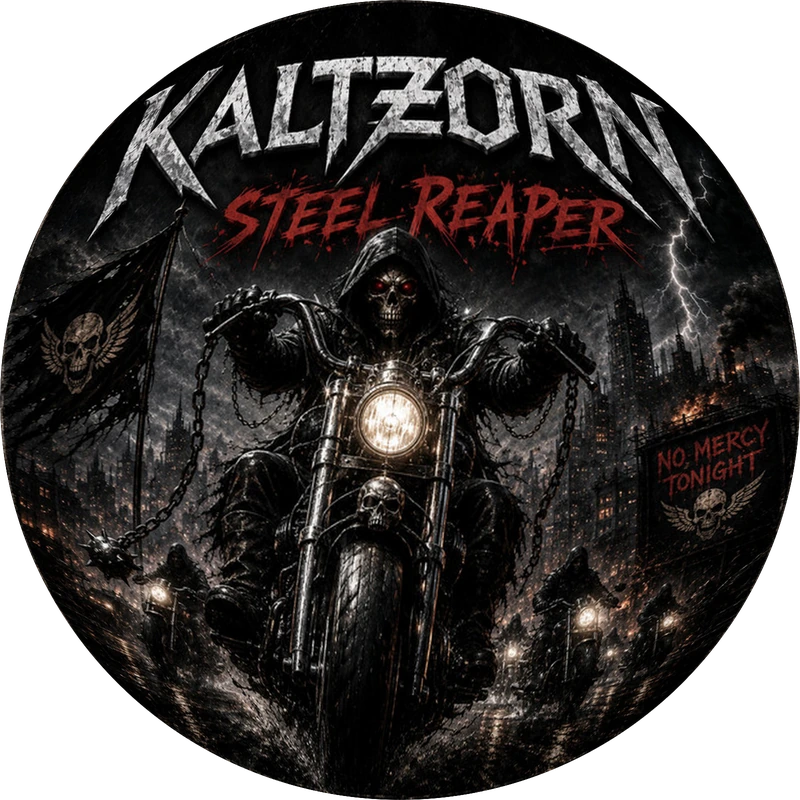
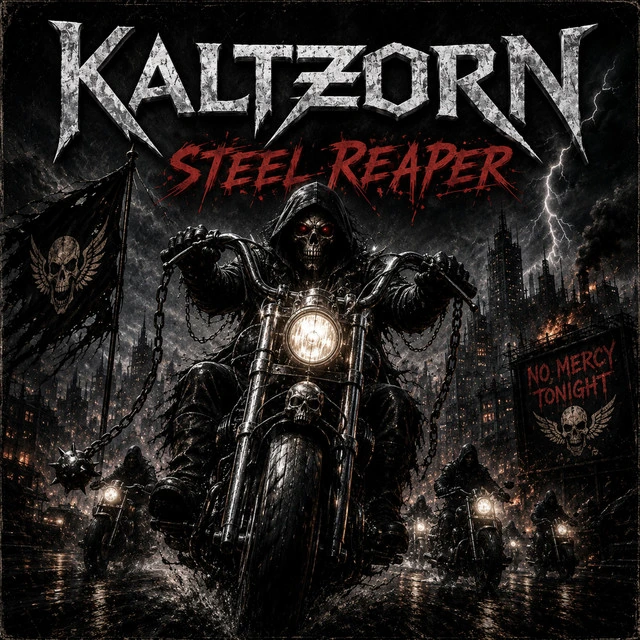
Plattenschrank: Cover quadratisch und unverzerrt, symmetrisches Raster
Die runde FG-Squircular-Abbildung hat die Cover gebogen und gezogen. Jetzt werden die Cover 1:1 ohne Verzerrung gezeigt, in einheitlicher Größe und in einem zentrierten Raster (Desktop 7 pro Reihe, Handy 3 pro Reihe). Die tägliche Aktualisierung erzeugt neue Cover ebenfalls quadratisch.

diff --git a/index.html b/index.html
@@ -10,7 +10,7 @@
   <link rel="icon" type="image/png" sizes="32x32" href="img/favicon-32.png">
   <link rel="icon" type="image/png" sizes="192x192" href="img/favicon-192.png">
   <link rel="apple-touch-icon" href="img/apple-touch-icon.png">
-  <link rel="stylesheet" href="css/vinyl-player.css?v=20261118c">
+  <link rel="stylesheet" href="css/vinyl-player.css?v=20261123a">
 </head>
 <body>
   <header class="top">
@@ -272,6 +272,6 @@
     <p><a href="impressum.html">Impressum</a> · <a href="datenschutz.html">Datenschutz</a></p>
   </footer>
   <script type="application/json" id="songs-data">[{"title": "Sandstorm", "spotify": "https://open.spotify.com/intl-de/track/5ND2lS3kLnksKCyFLLAk8p", "img": "img/spotify/5ND2lS3kLnksKCyFLLAk8p.jpg", "date": "2026-11-13", "preview": "https://p.scdn.co/mp3-preview/526c113eedbc3c50d9f23eb5d10283db6123a58d", "imgRound": "img/covers-round/5ND2lS3kLnksKCyFLLAk8p.webp"}, {"title": "the hall", "spotify": "https://open.spotify.com/intl-de/track/3fJEQoQwdBF8fjzsAhPPmy", "img": "img/spotify/3fJEQoQwdBF8fjzsAhPPmy.jpg", "date": "2026-10-23", "preview": "https://p.scdn.co/mp3-preview/8db30a317e3db995c57fdcb7d14ae5f9a51163cb", "imgRound": "img/covers-round/3fJEQoQwdBF8fjzsAhPPmy.webp"}, {"title": "fucking reset", "spotify": "https://open.spotify.com/intl-de/track/4ftDTNGzhHhFiwhv9SN41g", "img": "img/spotify/4ftDTNGzhHhFiwhv9SN41g.jpg", "date": "2026-10-16", "preview": "https://p.scdn.co/mp3-preview/b3a6081ce442ea7b242c062b0217696f863d7ff1", "imgRound": "img/covers-round/4ftDTNGzhHhFiwhv9SN41g.webp"}, {"title": "Silibrand_vol 1", "spotify": "https://open.spotify.com/intl-de/track/7iqqqQsSNiqwe6VstJ06SS", "img": "img/spotify/7iqqqQsSNiqwe6VstJ06SS.jpg", "date": "2026-10-09", "preview": "https://p.scdn.co/mp3-preview/428d897074672af58dfb91b9ee3eba3e538da6db", "imgRound": "img/covers-round/7iqqqQsSNiqwe6VstJ06SS.webp"}, {"title": "Silibrand_vol2", "spotify": "https://open.spotify.com/intl-de/track/598gVEg2XLAZoiWs7jZIs6", "img": "img/spotify/598gVEg2XLAZoiWs7jZIs6.jpg", "date": "2026-10-09", "preview": "https://p.scdn.co/mp3-preview/2906d28fa06725c1d0ae3660c39974f316f9adb1", "imgRound": "img/covers-round/598gVEg2XLAZoiWs7jZIs6.webp"}, {"title": "Kalt geworden", "spotify": "https://open.spotify.com/intl-de/track/7tsY4sPybyJB6DWgyH7iVY", "img": "img/spotify/7tsY4sPybyJB6DWgyH7iVY.jpg", "preview": "https://p.scdn.co/mp3-preview/0ea6280f464dfceb6a157c46809b28188598f849", "date": "2026-10-02", "imgRound": "img/covers-round/7tsY4sPybyJB6DWgyH7iVY.webp"}, {"title": "sehr kalt", "spotify": "https://open.spotify.com/intl-de/track/7H1GRfcuH8jDsJTYaA0u8F", "img": "img/spotify/7H1GRfcuH8jDsJTYaA0u8F.jpg", "preview": "https://p.scdn.co/mp3-preview/0ad1e8e1751eb979ab815a57fb70edb37c9323e1", "date": "2026-10-02", "imgRound": "img/covers-round/7H1GRfcuH8jDsJTYaA0u8F.webp"}, {"title": "Black Tot Day", "spotify": "https://open.spotify.com/intl-de/track/61fqMlGBPgmPeHm7BFpzE5", "img": "img/spotify/61fqMlGBPgmPeHm7BFpzE5.jpg", "preview": "https://p.scdn.co/mp3-preview/4cc8a6cc7064ce822a4f71c1f150fdc2095be8f9", "date": "2026-07-17", "imgRound": "img/covers-round/61fqMlGBPgmPeHm7BFpzE5.webp"}, {"title": "# NO CAP", "spotify": "https://open.spotify.com/intl-de/track/1l3InAwpldfjPaPn2o1LYZ", "img": "img/spotify/1l3InAwpldfjPaPn2o1LYZ.jpg", "preview": "https://p.scdn.co/mp3-preview/cb71313d9b74822e5b1d61ce1edb6a428faede9f", "date": "2026-07-10", "canvas": "video/canvas/1l3InAwpldfjPaPn2o1LYZ", "imgRound": "img/covers-round/1l3InAwpldfjPaPn2o1LYZ.webp"}, {"title": "Steel Reaper", "spotify": "https://open.spotify.com/intl-de/track/4DMTMlJBna7TEwzI4NXbfq", "img": "img/spotify/4DMTMlJBna7TEwzI4NXbfq.jpg", "preview": "https://p.scdn.co/mp3-preview/2d1172e84f86129fd926f82d601aaf82ec5354ae", "date": "2026-07-03", "imgRound": "img/covers-round/4DMTMlJBna7TEwzI4NXbfq.webp"}, {"title": "IRGENDWO IM LICHT", "spotify": "https://open.spotify.com/intl-de/track/20je7WNOji43C3LTFXXwp2", "img": "img/spotify/20je7WNOji43C3LTFXXwp2.jpg", "preview": "https://p.scdn.co/mp3-preview/7bd2689f5f9c526c3449aeef6caa582087cb2ca9", "date": "2026-06-19", "imgRound": "img/covers-round/20je7WNOji43C3LTFXXwp2.webp"}, {"title": "Barbados Raid", "spotify": "https://open.spotify.com/intl-de/track/5dxd72urDVwFygiRCN6TrS", "img": "img/spotify/5dxd72urDVwFygiRCN6TrS.jpg", "preview": "https://p.scdn.co/mp3-preview/1fc3876cb7878c21f15bfa71f3178dc737feec57", "date": "2026-06-12", "imgRound": "img/covers-round/5dxd72urDVwFygiRCN6TrS.webp"}, {"title": "night of the wolves", "spotify": "https://open.spotify.com/intl-de/track/0HsuGfTfbez76mIBfWBA8X", "img": "img/spotify/0HsuGfTfbez76mIBfWBA8X.jpg", "preview": "https://p.scdn.co/mp3-preview/b19f2de05916211c38e2e544782c6e2a7a12ff82", "date": "2026-06-05", "imgRound": "img/covers-round/0HsuGfTfbez76mIBfWBA8X.webp"}, {"title": "paused life", "spotify": "https://open.spotify.com/intl-de/track/6hoUfk7BXHaPRxLGvV1qwc", "img": "img/spotify/6hoUfk7BXHaPRxLGvV1qwc.jpg", "preview": "https://p.scdn.co/mp3-preview/3e45a3a23b968e930e0a8be0591ecdcb3f2590b6", "date": "2026-05-29", "imgRound": "img/covers-round/6hoUfk7BXHaPRxLGvV1qwc.webp"}, {"title": "Bagpipe Malfunction", "spotify": "https://open.spotify.com/intl-de/track/7rkt5MnZC29bUR61ScdFo6", "img": "img/spotify/7rkt5MnZC29bUR61ScdFo6.jpg", "preview": "https://p.scdn.co/mp3-preview/171eadb1ae63d739f268add40aa98a2179cfd5e9", "date": "2026-05-15", "imgRound": "img/covers-round/7rkt5MnZC29bUR61ScdFo6.webp"}, {"title": "Love is darkness", "spotify": "https://open.spotify.com/intl-de/track/7AZIfsHbrWcl7TkVHFup6u", "img": "img/spotify/7AZIfsHbrWcl7TkVHFup6u.jpg", "preview": "https://p.scdn.co/mp3-preview/2184657f9f4e92659ec037afa79341c05350a039", "date": "2026-05-15", "imgRound": "img/covers-round/7AZIfsHbrWcl7TkVHFup6u.webp"}, {"title": "feel the chaos", "spotify": "https://open.spotify.com/intl-de/track/6tWQuCvmGI2UmyubTixqeZ", "img": "img/spotify/6tWQuCvmGI2UmyubTixqeZ.jpg", "preview": "https://p.scdn.co/mp3-preview/f550a75e6a6c66c93862aeccddd93fc0e76b5ad2", "date": "2026-05-08", "imgRound": "img/covers-round/6tWQuCvmGI2UmyubTixqeZ.webp"}, {"title": "Tränen im Regen", "spotify": "https://open.spotify.com/intl-de/track/23DU4OA9Uo95MjeWikcUXg", "img": "img/spotify/23DU4OA9Uo95MjeWikcUXg.jpg", "preview": "https://p.scdn.co/mp3-preview/b83ca239642debd1e48307831a11bcb2172cd74f", "date": "2026-04-24", "imgRound": "img/covers-round/23DU4OA9Uo95MjeWikcUXg.webp"}, {"title": "war in the world_top1", "spotify": "https://open.spotify.com/intl-de/track/6geTTeM2HUgYDlrvVGsLC1", "img": "img/spotify/6geTTeM2HUgYDlrvVGsLC1.jpg", "preview": "https://p.scdn.co/mp3-preview/7d8fec5eadff1090943d57102671ed36314bbc9d", "date": "2026-04-10", "imgRound": "img/covers-round/6geTTeM2HUgYDlrvVGsLC1.webp"}, {"title": "blood oath", "spotify": "https://open.spotify.com/intl-de/track/2Iyv6RkzZ6CpRd9rYtgxCH", "img": "img/spotify/2Iyv6RkzZ6CpRd9rYtgxCH.jpg", "preview": "https://p.scdn.co/mp3-preview/9c0aac19c687440af88e70d14458ccb36cb232e6", "date": "2026-03-11", "imgRound": "img/covers-round/2Iyv6RkzZ6CpRd9rYtgxCH.webp"}, {"title": "„FALSE IDOLS BLEED“", "spotify": "https://open.spotify.com/intl-de/track/2OEuCIl7tkgDEtRcsGPL4r", "img": "img/spotify/2OEuCIl7tkgDEtRcsGPL4r.jpg", "preview": "https://p.scdn.co/mp3-preview/e206f0511b8410fa4dffe7b5cc4678cccc5269c4", "date": "2026-03-08", "imgRound": "img/covers-round/2OEuCIl7tkgDEtRcsGPL4r.webp"}, {"title": "Toleranz ist heilbar", "spotify": "https://open.spotify.com/intl-de/track/435HjL7iQLqQctYF9ZDEPk", "img": "img/spotify/435HjL7iQLqQctYF9ZDEPk.jpg", "preview": "https://p.scdn.co/mp3-preview/f557f0044ab7d520fc0bd432dbd15b8683e78272", "date": "2026-03-03", "imgRound": "img/covers-round/435HjL7iQLqQctYF9ZDEPk.webp"}, {"title": "stormbound", "spotify": "https://open.spotify.com/intl-de/track/7yH4cLuJ7OjhwKem4bapgk", "img": "img/spotify/7yH4cLuJ7OjhwKem4bapgk.jpg", "preview": "https://p.scdn.co/mp3-preview/927adf946769f35377ef5d03548b0effb8cb0db1", "date": "2026-02-27", "imgRound": "img/covers-round/7yH4cLuJ7OjhwKem4bapgk.webp"}]</script>
-  <script src="js/vinyl-player.js?v=20261118b"></script>
+  <script src="js/vinyl-player.js?v=20261123a"></script>
 </body>
 </html>

diff --git a/css/vinyl-player.css b/css/vinyl-player.css
@@ -138,3 +138,19 @@ body.sp-open{padding-bottom:11.5rem}
   -webkit-mask-image:none;mask-image:none;box-shadow:0 18px 50px rgba(0,0,0,.55),0 0 0 1px rgba(230,179,90,.25)}
 .stage.has-canvas>.canvas-bg.show{opacity:1}
 @media(prefers-reduced-motion:reduce){.stage-disc{transition:none}}
+/* Plattenschrank: quadratische, unverzerrte Cover (1:1) in einheitlicher Größe, symmetrisches Raster */
+.disc{border-radius:6px;background:#111;box-shadow:0 10px 28px rgba(0,0,0,.5),0 0 0 1px rgba(230,179,90,.35)}
+.disc .grooves,.disc::before,.disc::after,.stage-disc::after,.vinyl::after{display:none}
+.disc img{inset:0;width:100%;height:100%;object-fit:cover;border-radius:6px;box-shadow:none}
+.stage-disc .disc{will-change:auto}
+.stage-disc.on .disc{animation:cover-glow 2.4s ease-in-out infinite}
+@keyframes cover-glow{0%,100%{box-shadow:0 10px 28px rgba(0,0,0,.5),0 0 0 1px rgba(230,179,90,.45)}50%{box-shadow:0 10px 28px rgba(0,0,0,.5),0 0 0 2px #e6b35a,0 0 32px rgba(230,179,90,.35)}}
+.shelf{flex-wrap:wrap;justify-content:center;align-items:flex-start;overflow:visible;scroll-snap-type:none;gap:1.2rem 1rem;padding:.4rem 0 1.1rem}
+.vinyl{width:132px}
+.vinyl .disc{width:120px}
+@media(max-width:699px){
+  .vinyl{width:calc((100% - 2rem) / 3)}
+  .vinyl .disc{width:100%}
+}
+.nowbar img{border-radius:6px}
+@media(prefers-reduced-motion:reduce){.stage-disc.on .disc{animation:none}}

diff --git a/js/vinyl-player.js b/js/vinyl-player.js
@@ -104,7 +104,7 @@
     }
     if (scrollShelf) {
       var active = document.querySelector('.vinyl[data-index="' + i + '"]');
-      if (active && active.scrollIntoView) {
+      if (active && active.scrollIntoView && active.parentNode.scrollWidth > active.parentNode.clientWidth + 1) {
         active.scrollIntoView({behavior: reduce ? "auto" : "smooth", inline: "center", block: "nearest"});
       }
     }

diff --git a/scripts/make_round_covers.py b/scripts/make_round_covers.py
@@ -1,76 +1,31 @@
 #!/usr/bin/env python3
-"""Erzeugt runde Plattenlabel-Cover: volles Quadrat per FG-Squircular-Mapping auf die Scheibe."""
+"""Erzeugt die Cover für den Plattenschrank: quadratisch (1:1), unverzerrt, einheitliche Größe.
+
+Dateinamen/Ordner (img/covers-round) bleiben aus Kompatibilitätsgründen gleich."""
 import os
 import sys
-import numpy as np
 from PIL import Image
 
 ROOT = os.path.dirname(os.path.dirname(os.path.abspath(__file__)))
 SRC_DIR = os.path.join(ROOT, "img", "spotify")
 DEST_DIR = os.path.join(ROOT, "img", "covers-round")
-OUT_SIZE = 800
-SUPER = 2  # intern mit 2× rechnen, dann herunterskalieren
-
-
-def _bilinear(arr, src_x, src_y):
-    h, w = arr.shape[:2]
-    x0 = np.floor(src_x).astype(np.int32)
-    y0 = np.floor(src_y).astype(np.int32)
-    x1 = np.clip(x0 + 1, 0, w - 1)
-    y1 = np.clip(y0 + 1, 0, h - 1)
-    x0 = np.clip(x0, 0, w - 1)
-    y0 = np.clip(y0, 0, h - 1)
-    fx = (src_x - x0)[..., None]
-    fy = (src_y - y0)[..., None]
-    a = arr.astype(np.float32)
-    return (
-        a[y0, x0] * (1 - fx) * (1 - fy)
-        + a[y0, x1] * fx * (1 - fy)
-        + a[y1, x0] * (1 - fx) * fy
-        + a[y1, x1] * fx * fy
-    )
-
-
-def square_to_disc(src: Image.Image, size: int) -> Image.Image:
-    """FG-Squircular / elliptical-grid: komplette Quadratfläche füllt die Scheibe."""
-    src = src.convert("RGBA")
-    arr = np.asarray(src)
-    h, w = arr.shape[:2]
-    ys, xs = np.mgrid[0:size, 0:size]
-    u = (xs + 0.5) / size * 2.0 - 1.0
-    v = (ys + 0.5) / size * 2.0 - 1.0
-    u2, v2 = u * u, v * v
-    D = np.maximum((2 + u2 - v2) ** 2 - 8 * u2, 0)
-    X = np.clip((2 + u2 - v2 - np.sqrt(D)) / 2, 0, 1)
-    Dy = np.maximum((2 + v2 - u2) ** 2 - 8 * v2, 0)
-    Y = np.clip((2 + v2 - u2 - np.sqrt(Dy)) / 2, 0, 1)
-    x = np.sign(u) * np.sqrt(X)
-    y = np.sign(v) * np.sqrt(Y)
-    src_x = (x + 1) / 2 * (w - 1)
-    src_y = (y + 1) / 2 * (h - 1)
-    out = _bilinear(arr, src_x, src_y)
-    r = np.sqrt(u2 + v2)
-    # weiche Kante (~1.2 px), außerhalb transparent
-    aa = np.clip((1.0 - r) * size / 1.2, 0, 1)
-    out[..., 3] *= aa
-    out[r > 1.0] = 0
-    return Image.fromarray(np.clip(out, 0, 255).astype(np.uint8), "RGBA")
+OUT_SIZE = 640
 
 
 def render_round(src_path: str, dest_path: str, size: int = OUT_SIZE) -> None:
-    im = Image.open(src_path)
-    work = size * SUPER
-    # Quelle hochskalieren, damit das Mapping nicht weich zeichnet
-    im = im.convert("RGBA").resize((work, work), Image.Resampling.LANCZOS)
-    disc = square_to_disc(im, work)
-    if SUPER > 1:
-        disc = disc.resize((size, size), Image.Resampling.LANCZOS)
+    """Quadratisches Cover ohne Verzerrung: mittig auf 1:1 zuschneiden, auf einheitliche Größe skalieren."""
+    im = Image.open(src_path).convert("RGB")
+    w, h = im.size
+    side = min(w, h)
+    left, top = (w - side) // 2, (h - side) // 2
+    im = im.crop((left, top, left + side, top + side))
+    im = im.resize((size, size), Image.Resampling.LANCZOS)
     os.makedirs(os.path.dirname(dest_path) or ".", exist_ok=True)
     ext = os.path.splitext(dest_path)[1].lower()
     if ext == ".webp":
-        disc.save(dest_path, "WEBP", quality=92, method=6)
+        im.save(dest_path, "WEBP", quality=92, method=6)
     else:
-        disc.save(dest_path, "PNG", optimize=True)
+        im.save(dest_path, "PNG", optimize=True)
 
 
 def dest_for(track_id: str) -> str:
